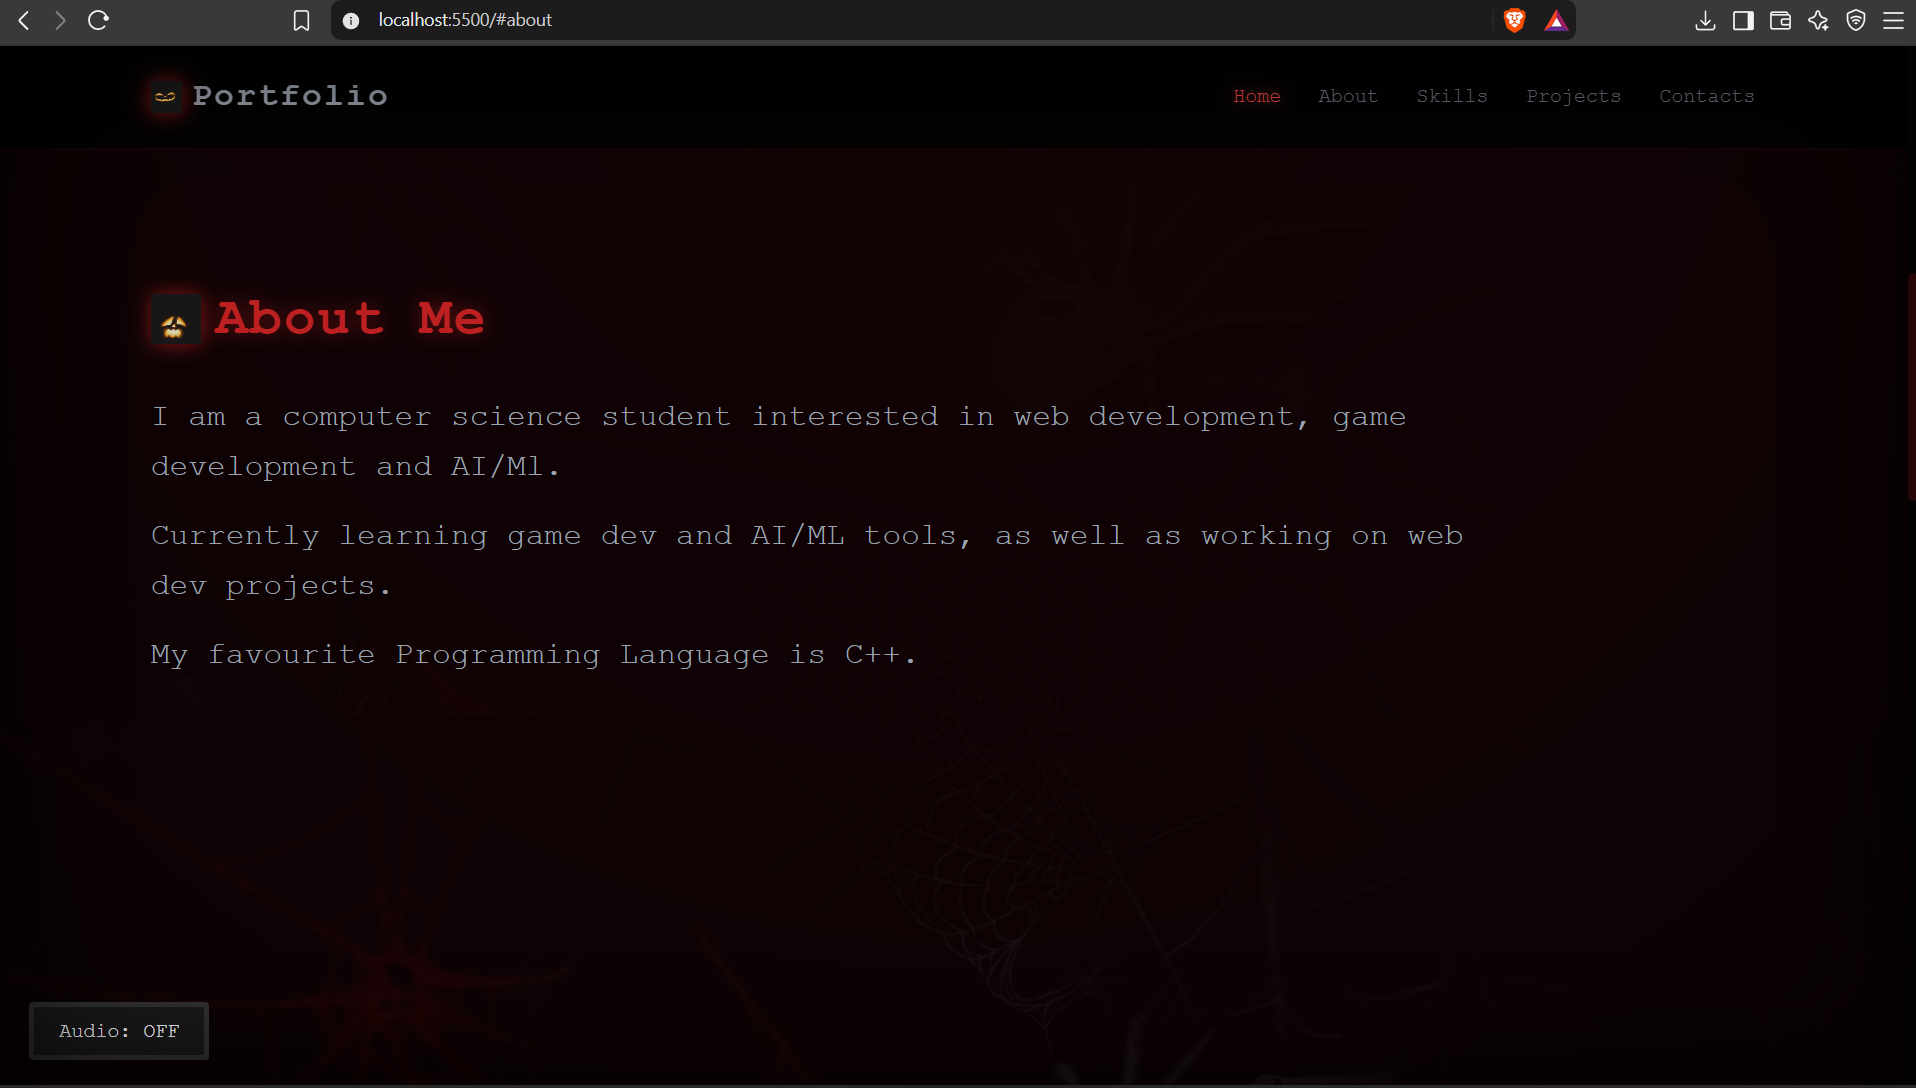
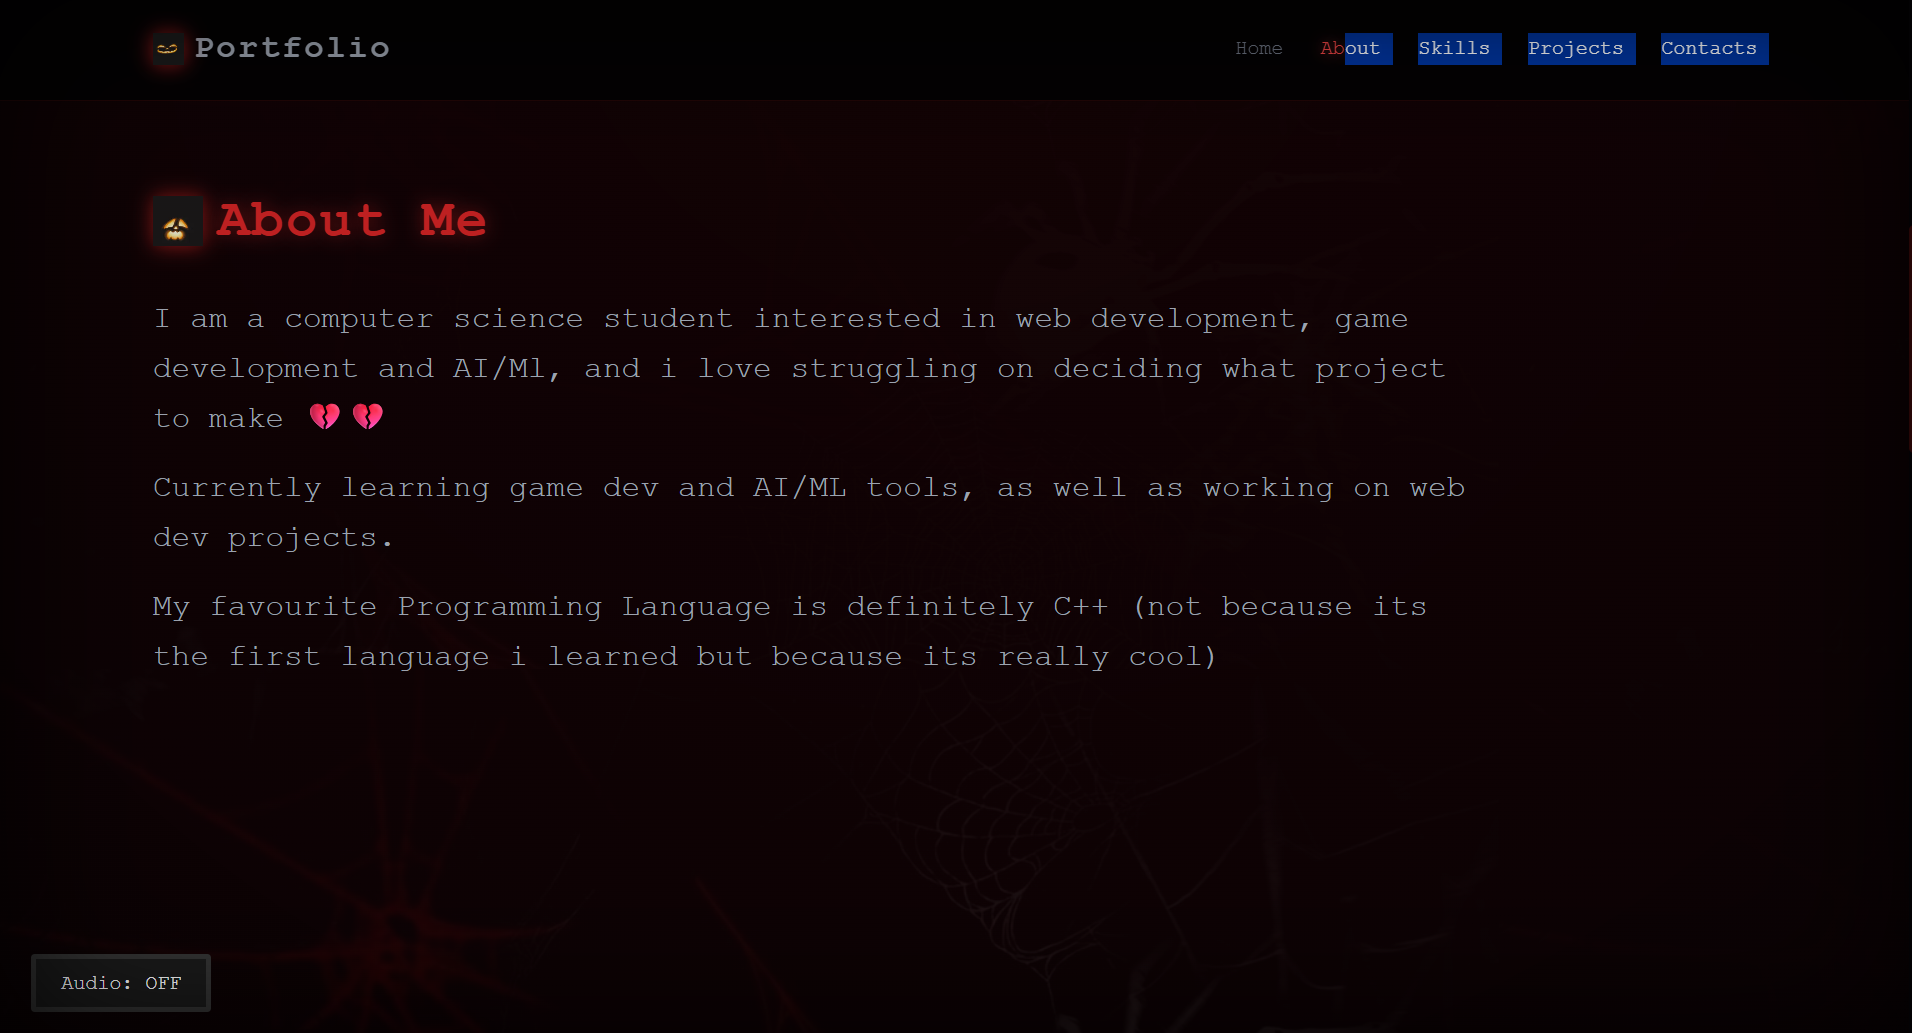
readme updates

diff --git a/README.md b/README.md
@@ -4,9 +4,8 @@
 A clean, dark spooky themed portfolio website built to display information about a demo computer science student such as background, technical skills, and projects. The website is built using HTML5, CSS3, JavaScript.
 
 ## Preview
-![preview](images/image.png)
-![preview](images/image1.png)
-
+![Preview](images/image.png)
+![Preview](images/image1.png)
 ## Features
 1. Smooth Navigation
 2. Interactive Links
